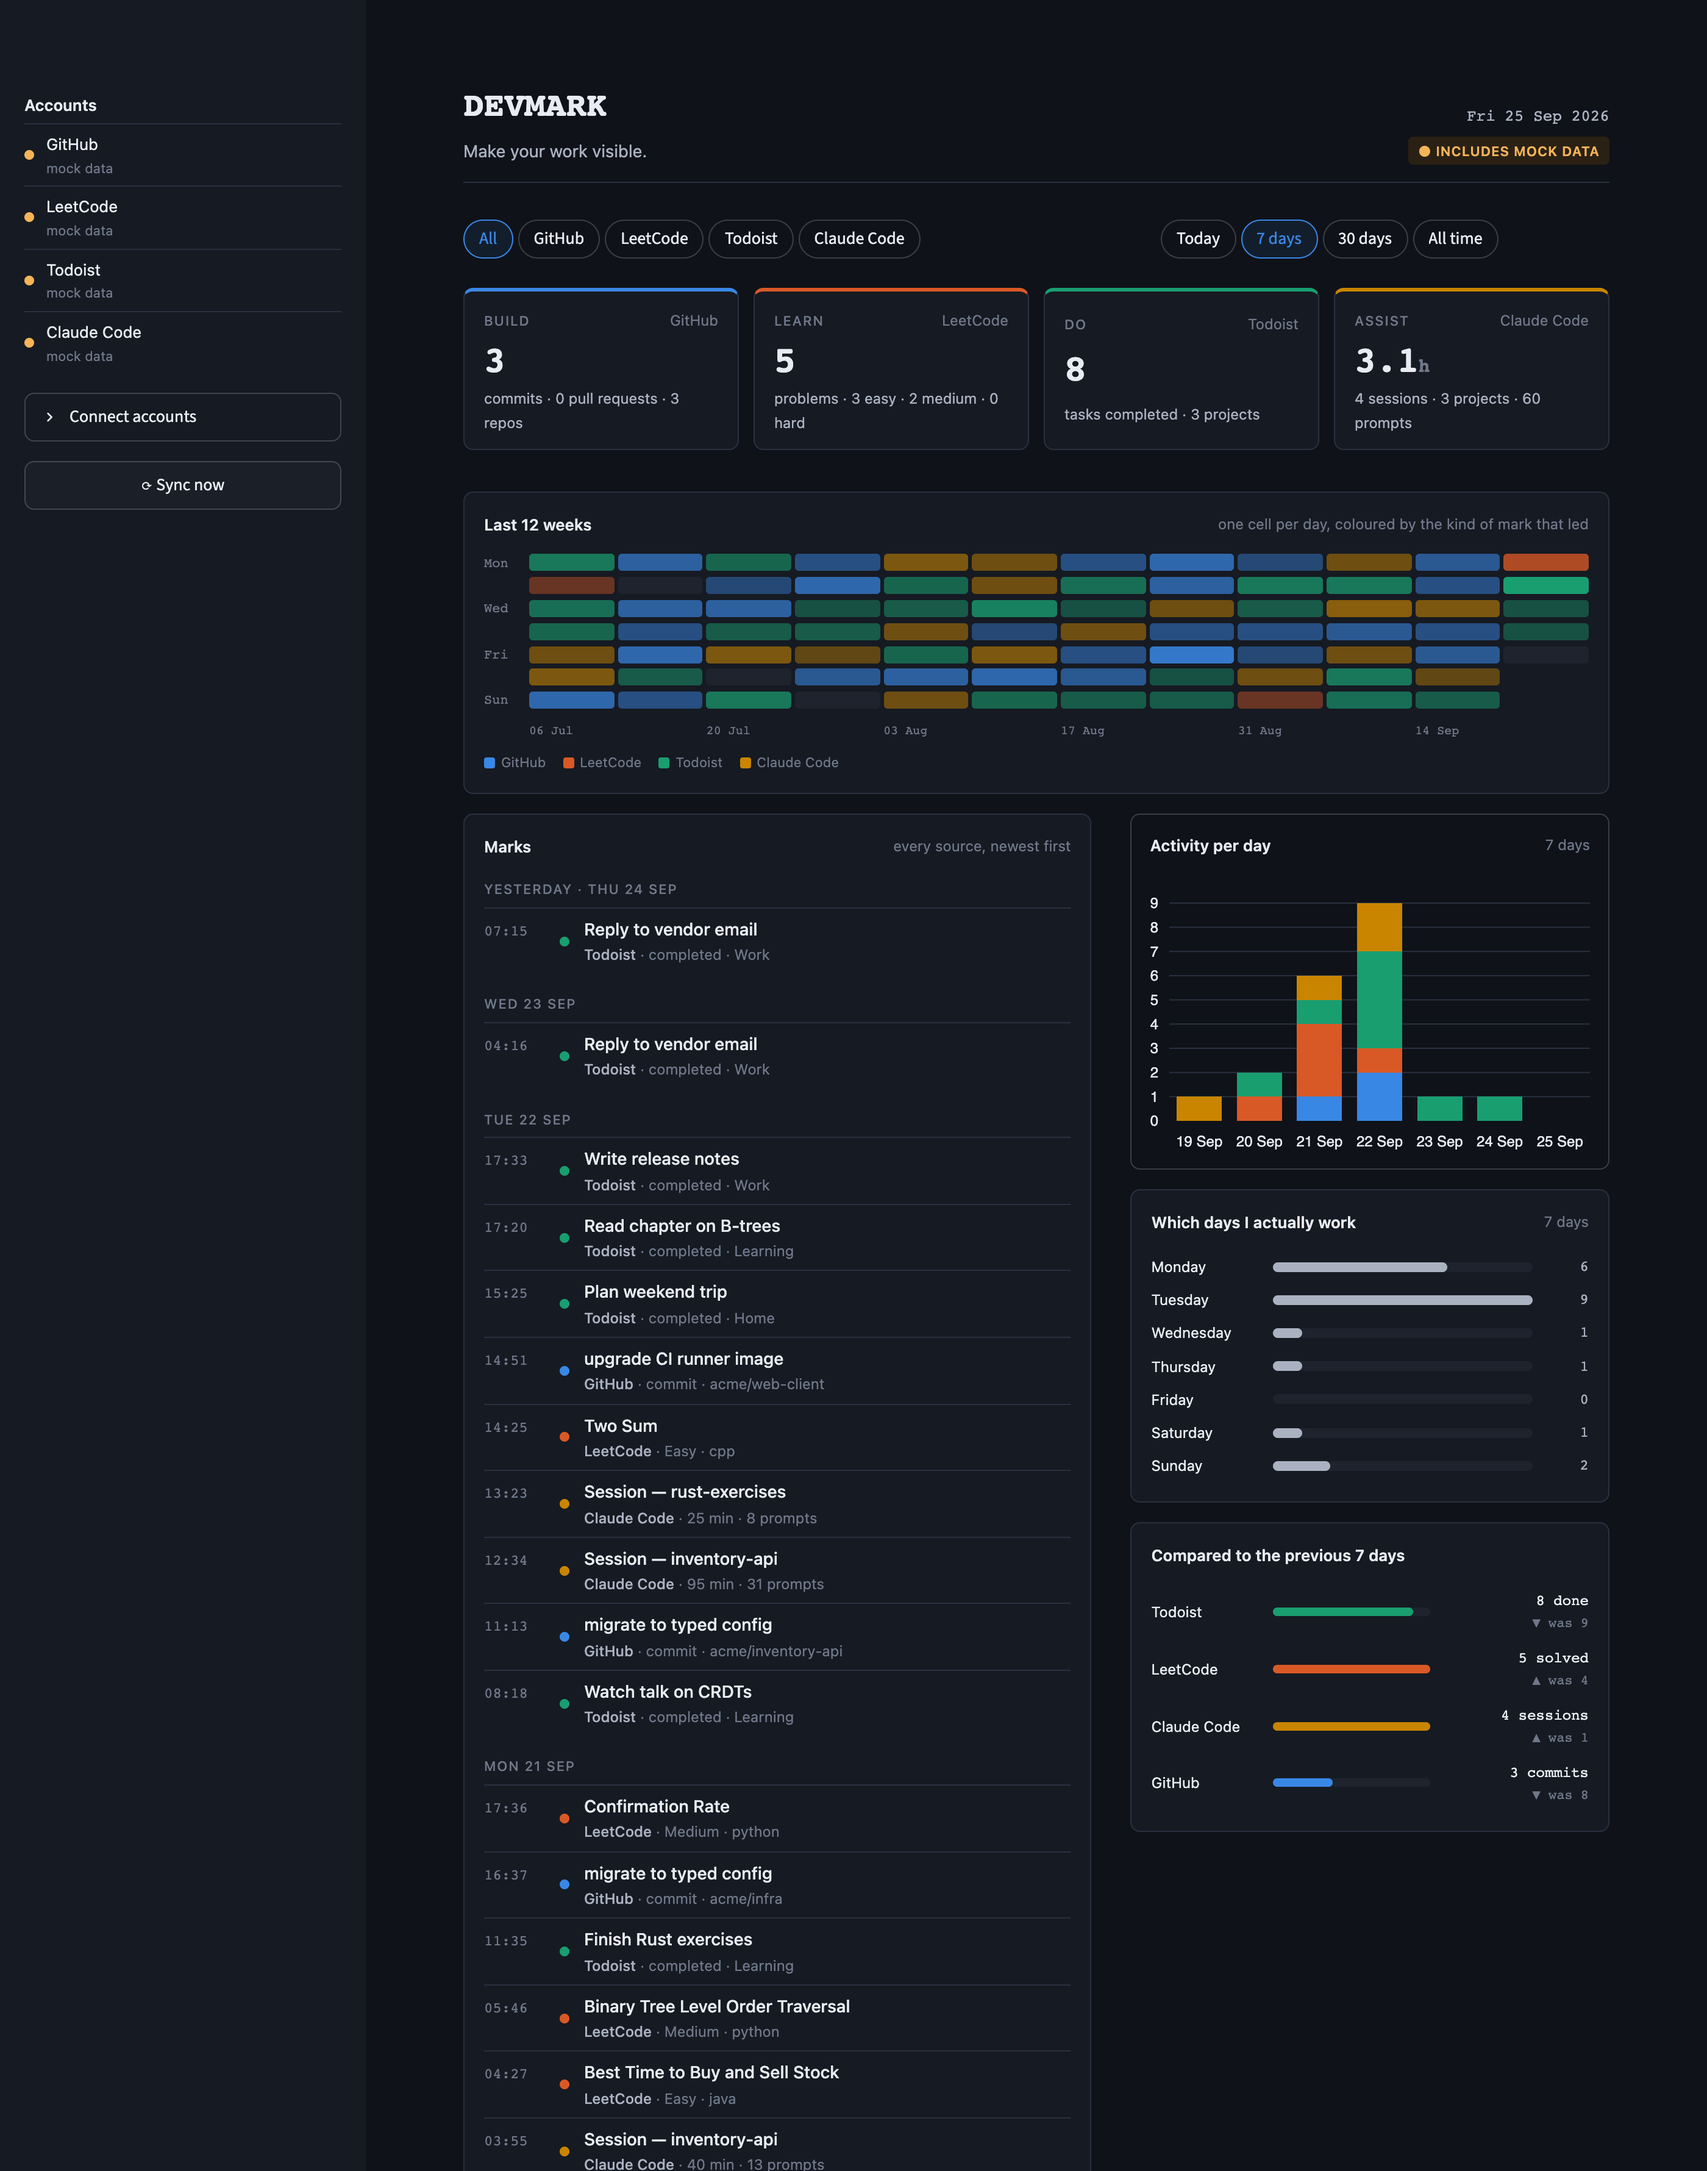
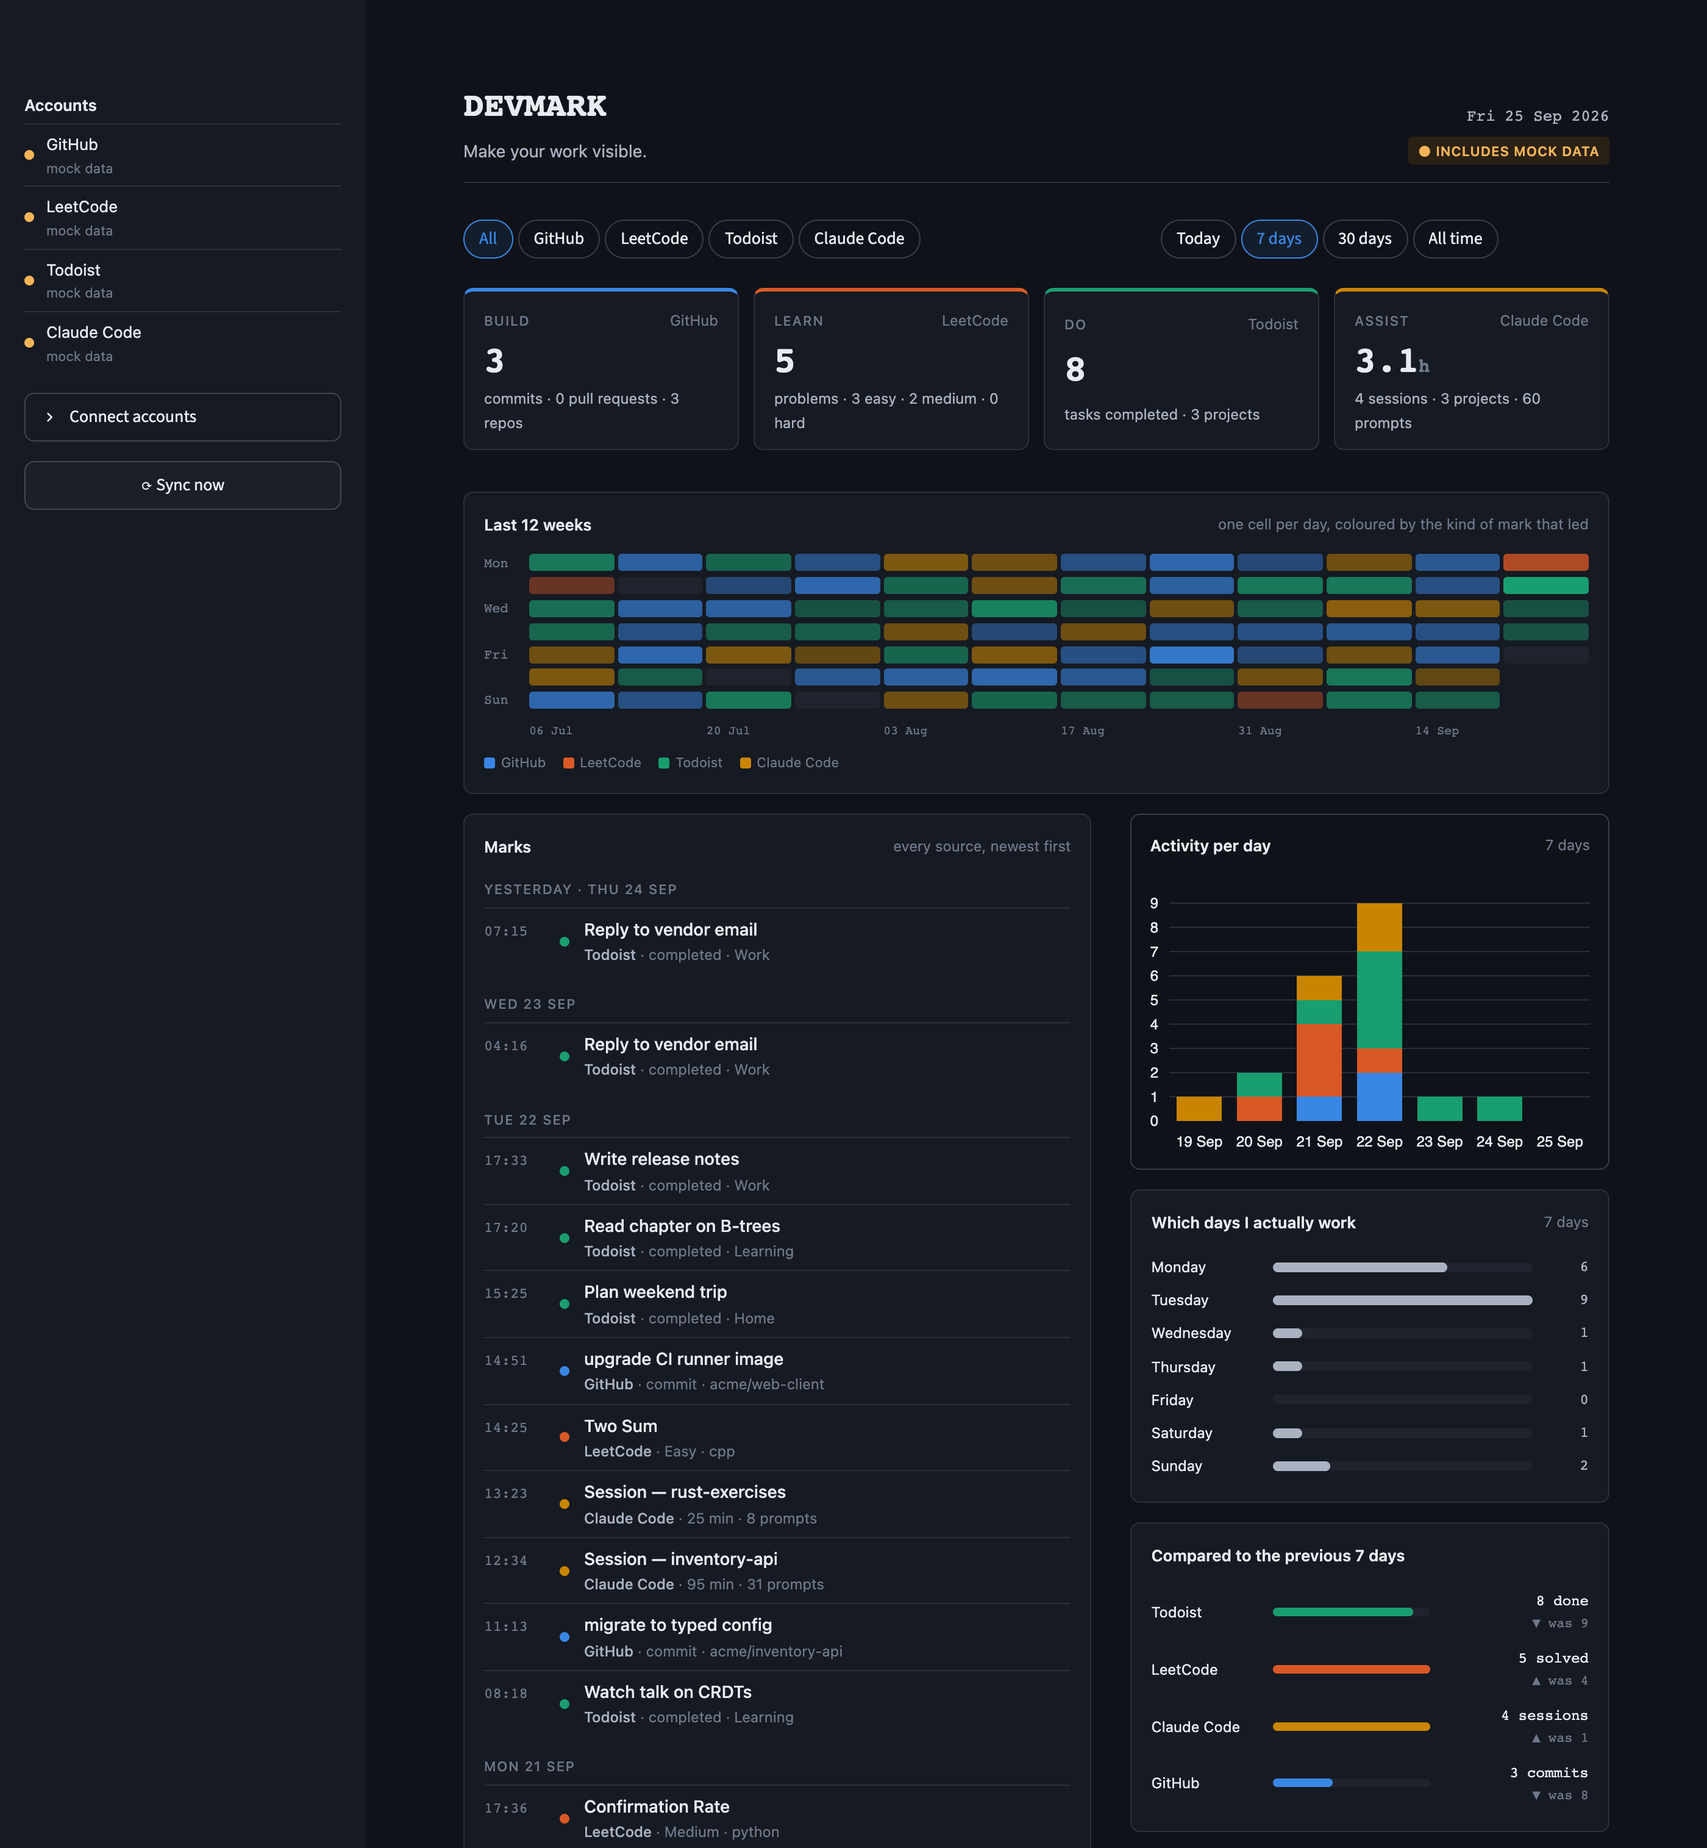
update README

diff --git a/README.md b/README.md
@@ -33,7 +33,7 @@ git clone https://github.com/mh-1005/devmark.git
 cd devmark
 uv sync
 createdb devmark
-cp .env.example .env                # set TIMEZONE, leave the tokens empty
+cp .env.example .env                # set TIMEZONE; account tokens can be added here or later from the dashboard
 uv run python -m scripts.init_db
 ```
 
@@ -43,11 +43,14 @@ uv run python -m scripts.init_db
 uv run devmark
 ```
 
-Opens at `http://localhost:8501`. Your data stays in the database between runs.
-
 ## Connect accounts
 
-Open the sidebar, paste your tokens under "Connect accounts", click Save, then "Sync now".
+Credentials can be provided in either of two ways:
+
+- **In the dashboard:** open the sidebar, expand "Connect accounts", enter your tokens, click Save, then "Sync now". Values are written to `.env`.
+- **In `.env` directly:** fill in the variables listed under Configuration before starting the app.
+
+Where to get each credential:
 
 - GitHub: Settings → Developer settings → Fine-grained tokens. Read-only `Contents` and `Pull requests`.
 - LeetCode: your username from `leetcode.com/u/<username>/`.
